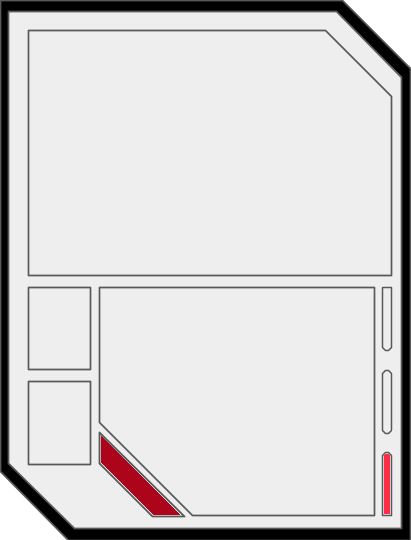
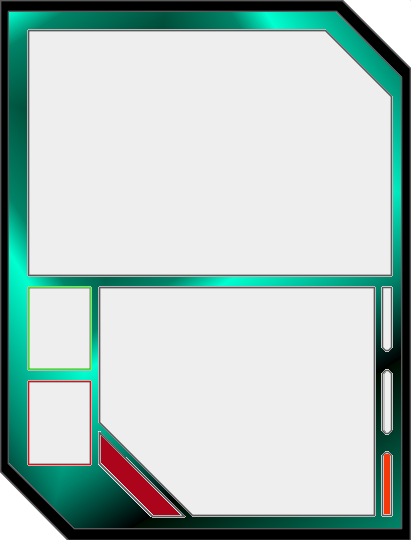
Added background to new card design

Changed region(s): [[0.0, 0.0, 0.9927, 0.9778], [0.292, 0.8296, 0.4088, 0.9185]]

diff --git a/src/monster_brawl/card.py b/src/monster_brawl/card.py
@@ -88,16 +88,18 @@ class GearCard(Card):
         template = Image.open(template_pth)
         if self.pic != None:
             ...
-        numfont = ImageFont.truetype(CARD_PATHS["font_path"], size=70)
-        namefont = ImageFont.truetype(CARD_PATHS["font_path"], size=30)
-        descfont = ImageFont.truetype(CARD_PATHS["font_path"], size=25)
+        numfont = ImageFont.truetype("/usr/share/fonts/TTF/GohuFont14NerdFont-Regular.ttf", size=70)
+        namefont = ImageFont.truetype("/usr/share/fonts/TTF/GohuFont14NerdFont-Regular.ttf", size=30)
+        descfont = ImageFont.truetype("/usr/share/fonts/TTF/GohuFont14NerdFont-Regular.ttf", size=22)
+
         draw = ImageDraw.Draw(template)
         #Name
-        draw.text((130, 290), massage_desc(self.name, 15), font=namefont, fill='black')
+        draw.text((40, 40), self.name, font=namefont, fill='black')
         #draw_underlined_text(draw, (50, 150), mon.name, font=namefont, fill='black')
         # Desc
-        draw.multiline_text((40, 40), massage_desc(self.desc, 20), font=descfont, fill='black')
-        draw.text((50,310), str(int(self.cost)), font=numfont, fill='black')
+        draw.multiline_text((85, 290), massage_desc(self.desc, 18), font=descfont, fill='black')
+        draw.text((185,450), str(int(self.cost)), font=numfont, fill='black')
+
         return template
 
 
@@ -140,7 +142,7 @@ def massage_desc(desc, char_len):
     i = 0
     recent_white_space = 0
     for j, char in enumerate(desc):
-        if i >= char_len:
+        if i > char_len:
             if char == " ":
                 new_text += " \n"
                 i = 0
